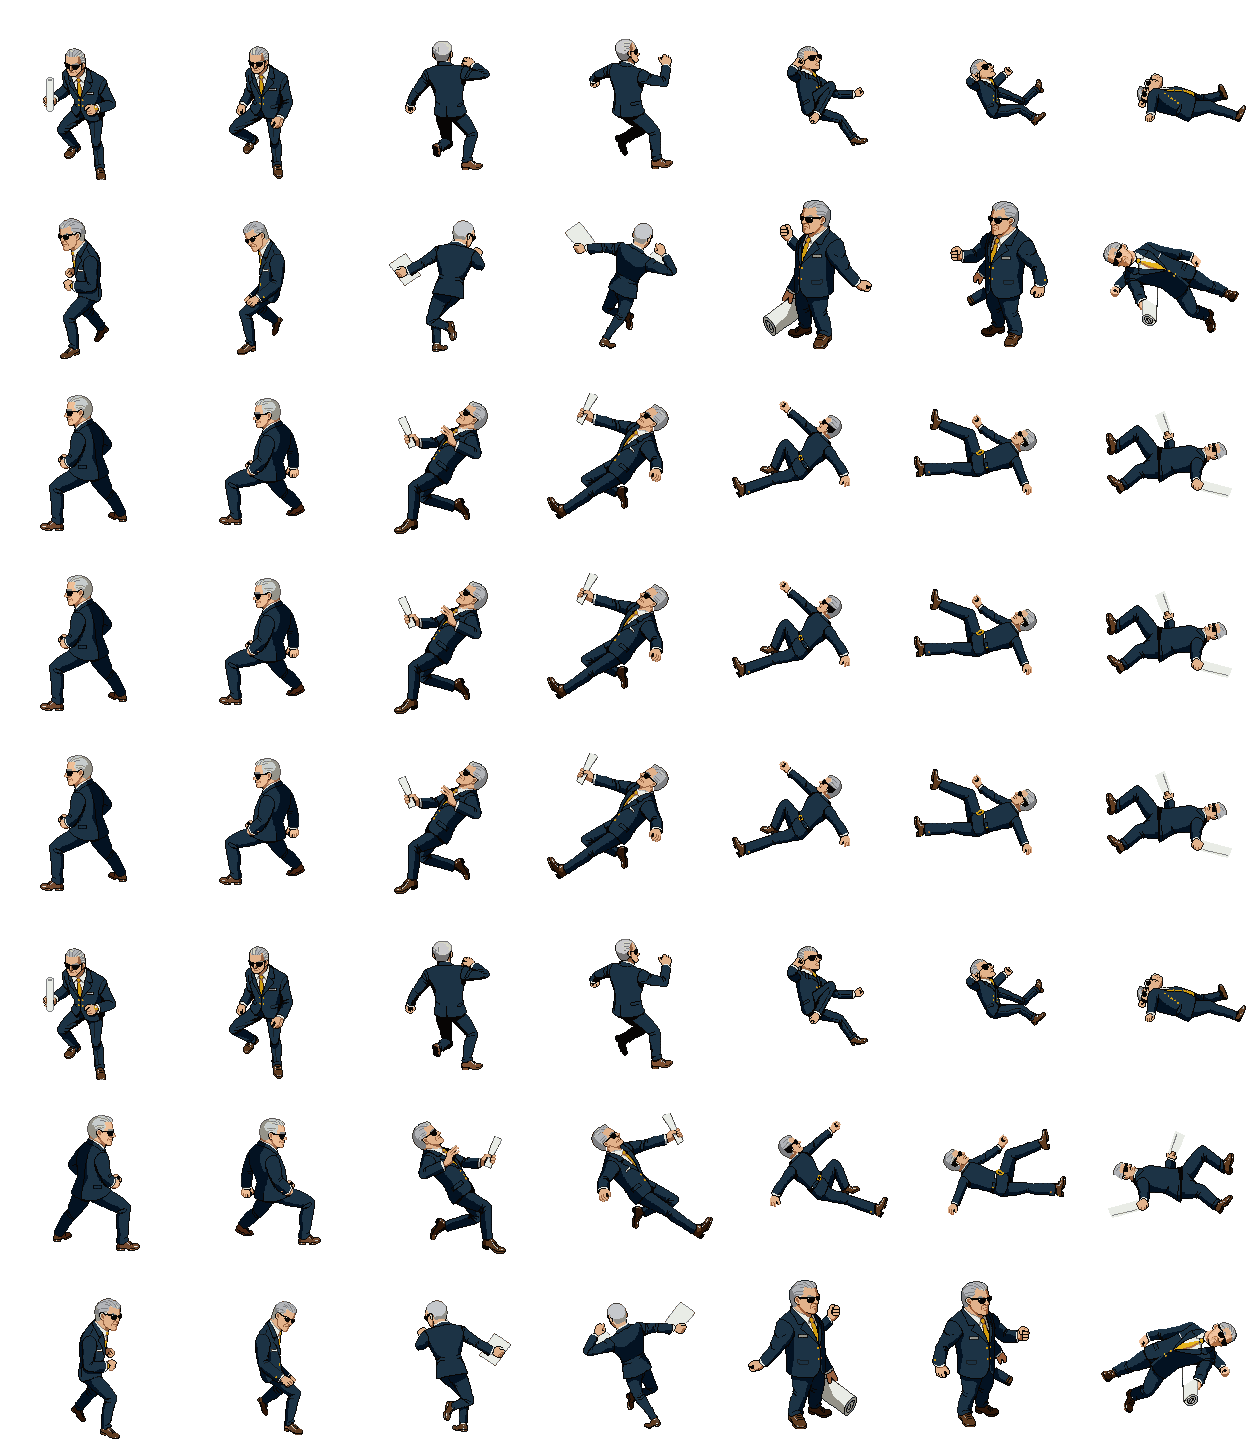
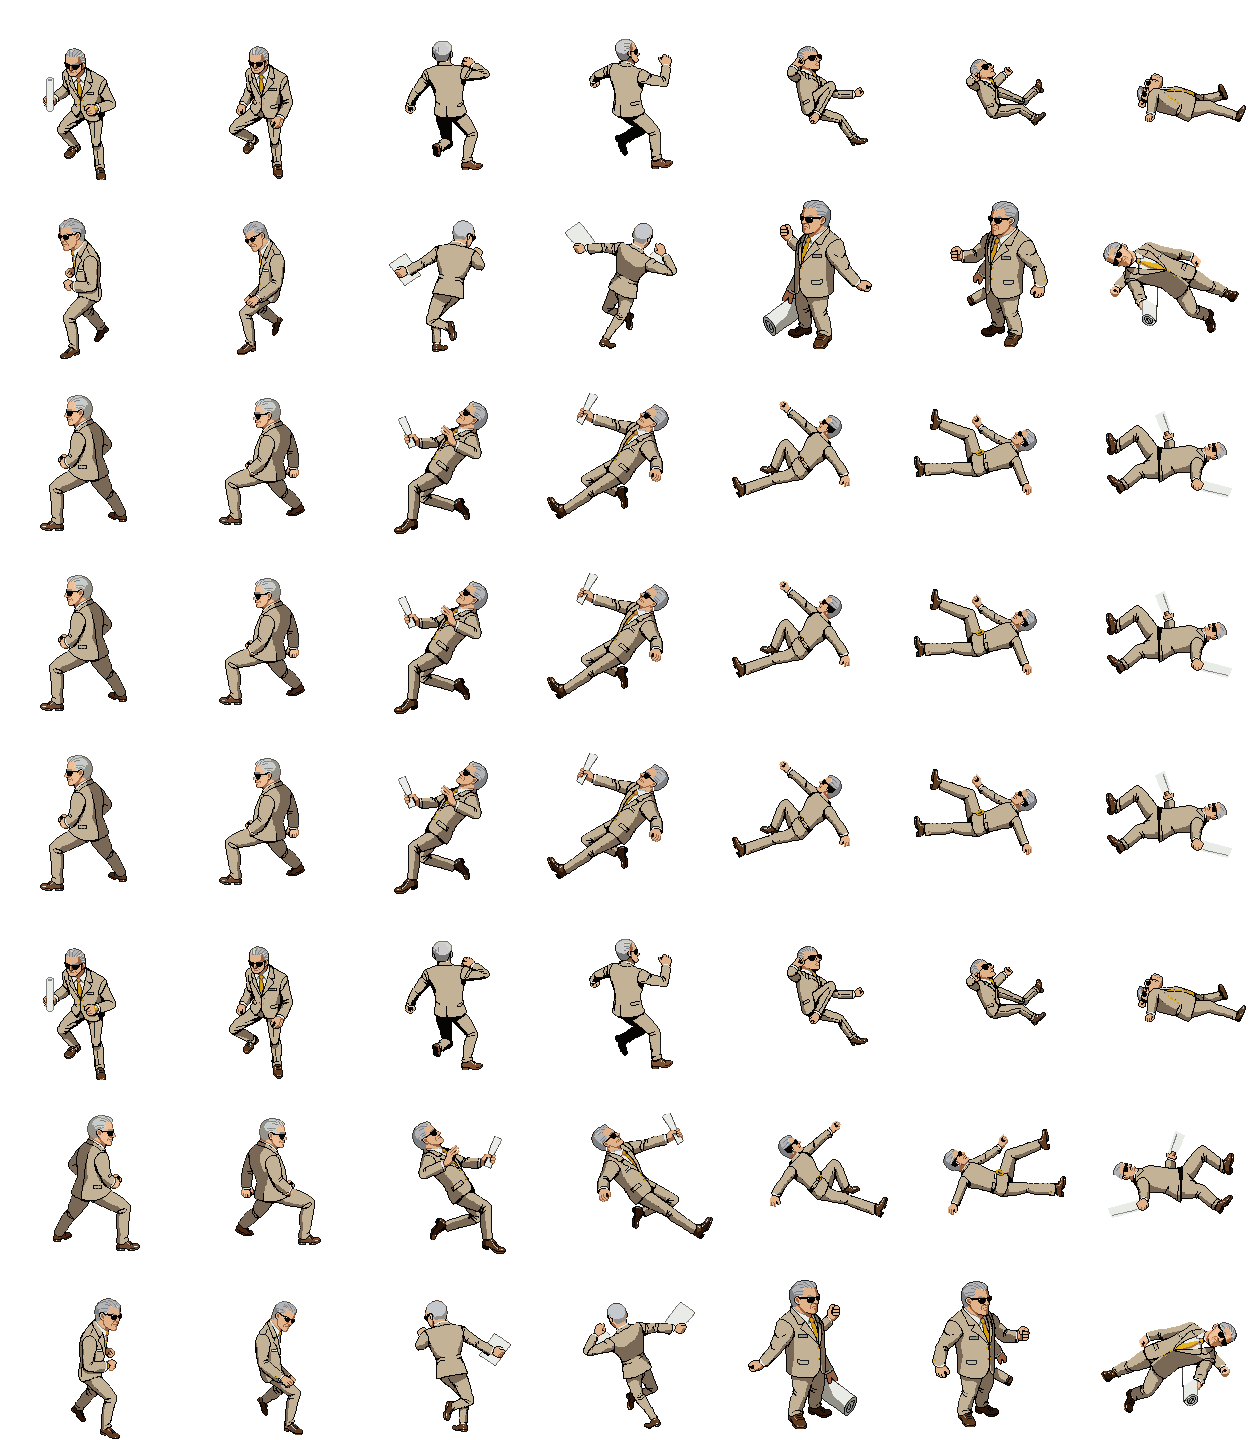
art(roof): the Developer wears a cream power suit
PixelLab drew his suit navy, which disappeared against the night roof.
recolor_suit.py maps the suit's blue-dominant pixels by brightness onto a
cream ramp (shading kept; outlines, hair, glasses, gold tie, skin and the
blueprints untouched), which is also the suit he was briefed with.

diff --git a/docs/art/neon-overhaul/recolor_suit.py b/docs/art/neon-overhaul/recolor_suit.py
@@ -1,0 +1,38 @@
+#!/usr/bin/env python3
+"""Recolour the Developer's navy suit to the cream power suit he was meant to wear.
+
+PixelLab drew the suit navy, which vanishes on the night roof. Every
+blue-dominant pixel (the suit's navies; outlines, hair, glasses, tie and skin
+are not) is mapped by brightness onto a cream ramp, keeping the shading.
+
+  python3 recolor_suit.py SHEET.png [SHEET.png ...]
+"""
+import sys
+from PIL import Image
+
+SHADOW, MID, LIGHT = (112, 96, 78), (196, 178, 150), (236, 224, 198)
+
+
+def lerp(a, b, t):
+    return tuple(round(x + (y - x) * t) for x, y in zip(a, b))
+
+
+def cream(r, g, b):
+    lum = 0.3 * r + 0.59 * g + 0.11 * b
+    if lum <= 46:
+        return lerp(SHADOW, MID, max(0.0, (lum - 12) / 34))
+    return lerp(MID, LIGHT, min(1.0, (lum - 46) / 30))
+
+
+for path in sys.argv[1:]:
+    image = Image.open(path).convert('RGBA')
+    pixels = image.load()
+    changed = 0
+    for y in range(image.height):
+        for x in range(image.width):
+            r, g, b, a = pixels[x, y]
+            if a and b > r + 12 and b >= g:
+                pixels[x, y] = (*cream(r, g, b), a)
+                changed += 1
+    image.save(path)
+    print(f'{path}: {changed} suit pixels recoloured')
